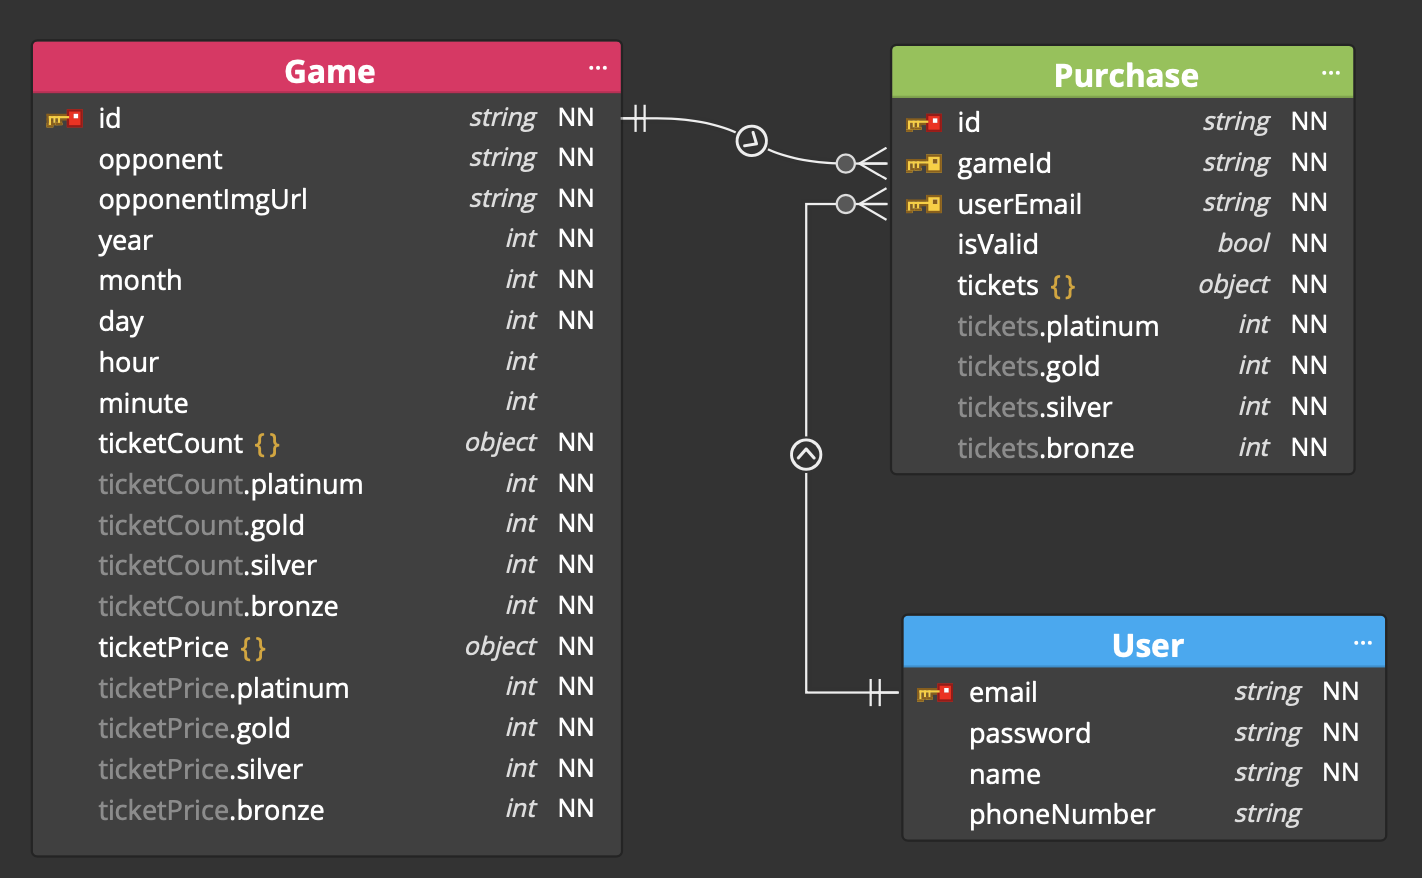
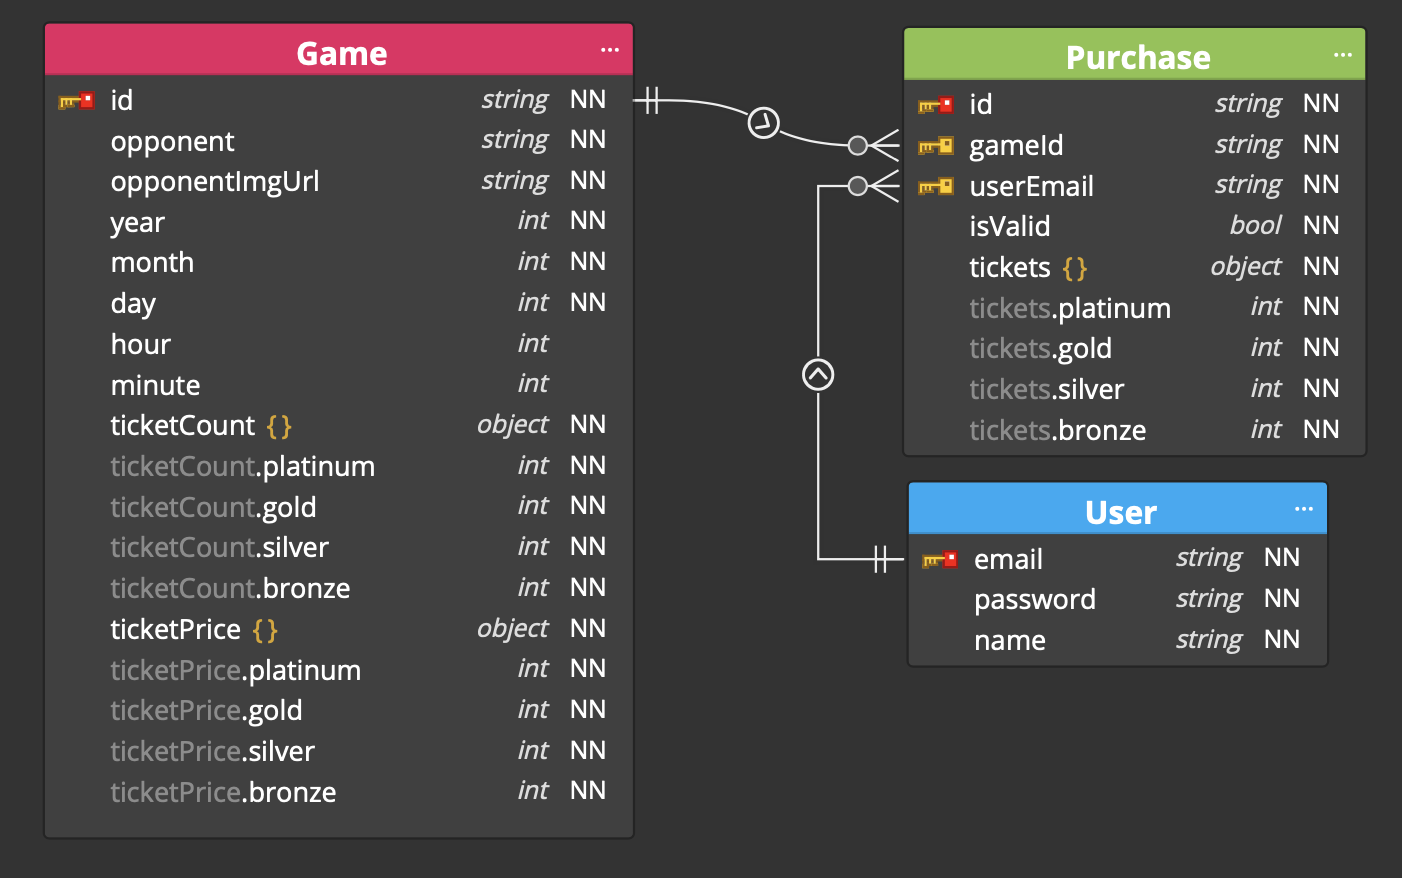
Data Model Changed - phoneNumber not used anymore

diff --git a/src/SignUp.tsx b/src/SignUp.tsx
@@ -265,7 +265,6 @@ function SignUp(): React.ReactElement {
       name,
       email,
       password,
-      passwordRetyped,
       navigate,
       state,
       nameCheck,

diff --git a/README.md b/README.md
@@ -91,7 +91,6 @@ Use `Google Firebase Hosting` to deploy this website.
     email: string
     password: string (hashed?)
     name: string
-    phoneNumber: string (optional)
   }
   ```
 
